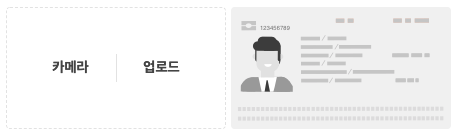
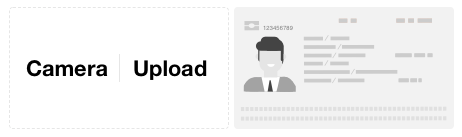
Add kyc images, complete changing language

diff --git a/src/views/SignUpPage/KycPage.jsx b/src/views/SignUpPage/KycPage.jsx
@@ -21,6 +21,8 @@ import Radio from "@material-ui/core/Radio/Radio";
 import RadioGroup from "@material-ui/core/RadioGroup/RadioGroup";
 import kyc1 from "assets/img/kyc/kyc1.png";
 import kyc2 from "assets/img/kyc/kyc2.png";
+import kyc3 from "assets/img/kyc/kyc3.png";
+import kyc4 from "assets/img/kyc/kyc4.png";
 import loginPageStyle from "../../assets/jss/material-kit-react/views/loginPage";
 
 class SignUpPage extends React.Component {
@@ -34,6 +36,7 @@ class SignUpPage extends React.Component {
       lastName:'',
       identity:'',
       birth:'',
+      kyc:false
     };
   }
   componentDidMount() {
@@ -49,11 +52,11 @@ class SignUpPage extends React.Component {
     this.setState({ value: event.target.value });
   };
   fillTheBlank(){
-    this.setState({firstName:"Kyle", lastName:"Kim", identity:"C03005988", value:"male", birth:"19970405" })
+    this.setState({firstName:"Kyle", lastName:"Kim", identity:"C03005988", value:"male", birth:"19970405", kyc:true})
   }
   render() {
     const { classes, ...rest } = this.props;
-    const { firstName, lastName, identity, birth } = this.state;
+    const { firstName, lastName, identity, birth, kyc } = this.state;
     return (
         <div>
           <Header
@@ -152,12 +155,15 @@ class SignUpPage extends React.Component {
                               },
                             }}
                         />
-                        <img src={kyc1} alt="Passport" className={classes.img} />
-                        <img src={kyc2} alt="Passport" className={classes.img} />
+                        <img src={kyc ? kyc3 : kyc1} alt="Passport" className={classes.img} />
+                        <img src={kyc ? kyc4 : kyc2} alt="Passport" className={classes.img} />
                       </CardBody>
                       <CardFooter className={classes.cardFooter}>
+                        <Button simple color="white" size="lg" onClick={() => {this.fillTheBlank();}}>
+                          Fill
+                        </Button>
                         <Link to="/" color="transparent" className={classes.navLink}>
-                          <Button simple color="white" size="lg">
+                          <Button simple color="primary" size="lg">
                             Done
                           </Button>
                         </Link>

diff --git a/src/views/LandingPage/Sections/ProductSection.jsx b/src/views/LandingPage/Sections/ProductSection.jsx
@@ -22,13 +22,9 @@ class ProductSection extends React.Component {
       <div className={classes.section}>
         <GridContainer justify="center">
           <GridItem xs={12} sm={12} md={8}>
-            <h2 className={classes.title}>WHAT IS MAKEUNIVERSE?</h2>
+            <h2 className={classes.title}>What is makeUNIVERSE</h2>
             <h5 className={classes.description}>
-              메이크유니버스는 K-Contents인 음원, 영상, 관련 콘텐츠 및 오프라인 활동수익에 대한 사업권을
-              기존의 소유권자인 기획사로부터 공동소유권을 구입하여 이를 분할하여 판매하고 있습니다.
-              분할된 소유권자들에게는 투명한 의사결정 수단을 제공하고, 그에 따른 수익금 활용정책을 수립합니다.
-              콘텐츠 수익 분배 증명은 판매되는 저작사업권인 온라인 음원, 뮤직비디오 또는 유사 디지털콘텐츠에서
-              발생하는 수익 및 오프라인 활동수익으로 이루어지고 있습니다.
+              makeUNIVERSE makes it possible for K-Pop content fans and enthusiasts to go from observer to participant. We enabling the purchasing of content right fragments, fans can collectively become co-owners of their artists’ creative work. By retaining the majority of the content right, artists are able to keep creative control while being able to track and interact with their biggest supporters and fans. The control for the usage of revenue resulting from the fans’ share of the content right will be given to the fragment holders, allowing them to make impactful decisions.
             </h5>
           </GridItem>
         </GridContainer>

diff --git a/src/views/MainPage/Sections/MainChartSection.jsx b/src/views/MainPage/Sections/MainChartSection.jsx
@@ -22,13 +22,10 @@ class MainChartSection extends React.Component {
         <div className="Main_PreSales" >
           <GridContainer justify="center">
             <GridItem xs={12} sm={12} md={8}>
-              <h2 className={classes.title}>Market Chart</h2>
+              <h2 className={classes.title}>The Market</h2>
               <h5 className={classes.description}>
-                This is the paragraph where you can write more details about your
-                product. Keep you user engaged by providing meaningful
-                information. Remember that by this time, the user is curious,
-                otherwise he wouldn't scroll to get here. Add a button if you want
-                the user to see more.
+                Did you know that most music content generates only 20% of their lifetime revenue in the first year of their release?
+
               </h5>
             </GridItem>
           </GridContainer>

diff --git a/src/views/MainPage/Sections/PreSalesSection.jsx b/src/views/MainPage/Sections/PreSalesSection.jsx
@@ -80,13 +80,9 @@ class PreSalesSection extends React.Component {
       <div className={classes.section}>
         <GridContainer justify="center">
           <GridItem xs={12} sm={12} md={8}>
-            <h2 className={classes.title}>PRE-SALE</h2>
+            <h2 className={classes.title}>Projects at a Glance</h2>
             <h5 className={classes.description}>
-              This is the paragraph where you can write more details about your
-              product. Keep you user engaged by providing meaningful
-              information. Remember that by this time, the user is curious,
-              otherwise he wouldn't scroll to get here. Add a button if you want
-              the user to see more.
+              These great K-POP artists are waiting for you to join them in creating amazing music and content!
             </h5>
           </GridItem>
         </GridContainer>
